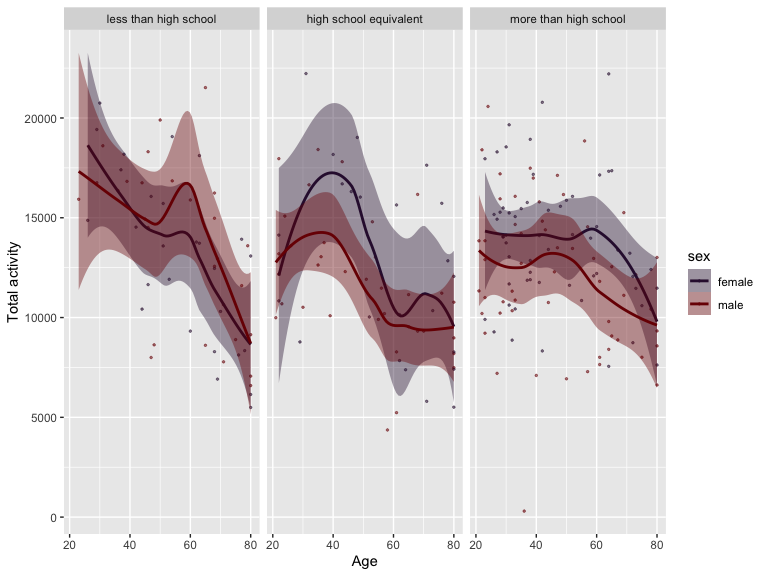
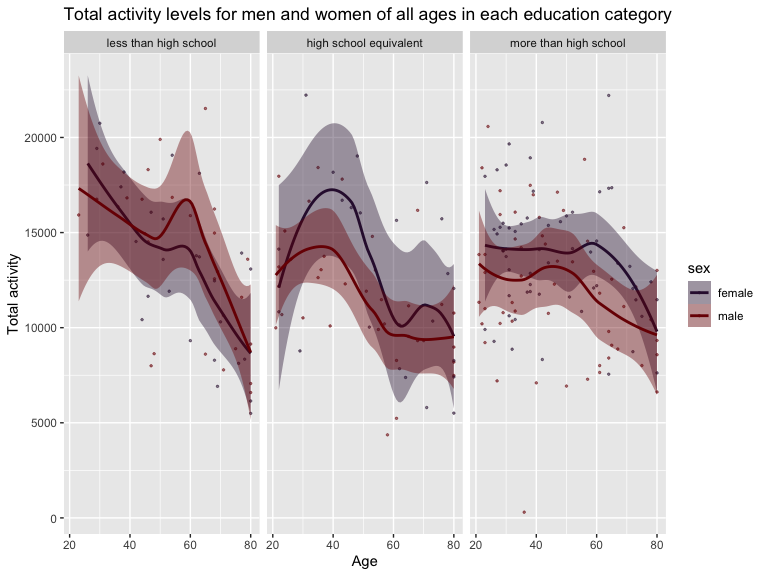
Final comments

diff --git a/p8105_hw3_rl3411.md b/p8105_hw3_rl3411.md
@@ -191,7 +191,7 @@ brfss_df =
          county = locationdesc) 
 ```
 
-### Looking into the “Overall Health” topic
+### Creating dataset for “Overall Health” topic
 
 ``` r
 overall_health_df =
@@ -257,11 +257,21 @@ exc_resp = overall_health_df |>
   summarize(mean = mean(data_value, na.rm=T)) 
 
 exc_resp |> 
-  ggplot(aes(x = year, y = mean, color = (group = state))) + 
-  geom_line()
+  ggplot(aes(x = year, y = mean)) + 
+  geom_line(aes(color = (group = state))) + 
+  geom_smooth(se = F) + 
+  labs(title = "Mean of data values over time (excellent health status group)")
 ```
 
 <img src="p8105_hw3_rl3411_files/figure-gfm/unnamed-chunk-10-1.png" width="100%" />
+
+From the spaghetti plot above, we see that most of the states have
+overlapping average values over time for those that responded
+“excellent” to their general health status. By looking at the thicker
+smooth blue curve across the center of the plot, there seems to be a
+slight downward trend from 2002 to 2010 across all states, though the
+overlaps between each “spaghetti” makes the plot messy and difficult to
+follow through each state.
 
 ### 2006 vs. 2010: Distribution of data for responses in NY
 
@@ -278,10 +288,21 @@ p2c_dataset |>
   theme(axis.text.x = element_text(size = 8)) +
   geom_boxplot(color = "grey", alpha = 0.5) +
   geom_point(aes(color = county)) + 
-  facet_grid(. ~ year)
+  facet_grid(. ~ year) + 
+  labs(title = "2006 vs. 2010: Distribution of data for responses in NY")
 ```
 
 <img src="p8105_hw3_rl3411_files/figure-gfm/unnamed-chunk-11-1.png" width="100%" />
+
+Among locations in NY State in both 2006 and 2010, the distribution of
+data values seem to increase from “poor” to “very good”, then taking a
+dip in the “excellent” response group. For those who responded “poor”,
+the data value distributions in both years have a small/tight interval
+and most counties averaged below 5 in this response group. On the other
+hand, the response groups “good” and “very good” seem to be the highest
+in both years. In 2006, the distribution of data values seem to be
+similar between “good” and “very good” but in 2010, the data values for
+“very good” was apparently higher than those who responded “good”.
 
 # Problem 3
 
@@ -322,7 +343,7 @@ mims_df =
   arrange(age, bmi)
 ```
 
-### Number of men and women in each education category
+### Comparison of men and women in each education category
 
 ``` r
 mims_df |> 
@@ -348,12 +369,22 @@ mims_df |>
                                    "more than high school")), 
              y = age, fill = sex)) +
   geom_boxplot() +  
-  xlab("Education level") + ylab("Age") 
+  xlab("Education level") + ylab("Age") +
+  labs(title = "Age distribution of men and women in each education category")
 ```
 
 <img src="p8105_hw3_rl3411_files/figure-gfm/unnamed-chunk-14-1.png" width="100%" />
 
-Comment!!!!!
+From the contingency table, we can deduce that most participants have an
+education level of more than high school. This education group
+corresponds a lower age distribution in the plot. For those who received
+an education of less than high school, their age distribution was
+higher, with an increased median of approximately 20 years as compared
+to those who had higher level of education. While the numbers between
+men and women were roughly equal in the “less than high school” and
+“more than high school” groups, there were 13 more men than women in the
+group who did high school and equivalent, and men were generally younger
+than women in this group.
 
 ``` r
 mims_total_act = mims_df |> 
@@ -369,12 +400,26 @@ mims_total_act |>
                                               "more than high school"))) +
   scale_color_viridis_d(option = "H") +
   scale_fill_viridis_d(option = "H") + 
-  ylab("Total activity") + xlab("Age")
+  ylab("Total activity") + xlab("Age") + 
+  labs(title = "Total activity levels for men and women of all ages in each education category")
 ```
 
 <img src="p8105_hw3_rl3411_files/figure-gfm/unnamed-chunk-15-1.png" width="100%" />
 
-Comment!!!!!
+Across all three education levels, there is a downward trend of total
+activity as age increases. This is reasonable as we would expect people
+to be less active as they grow older. All the curves end between the
+range of 8000 and 10000 for both men and women at the age of 80,
+suggesting that the activity levels do not differ between gender for
+older populations. For those who received the high school equivalent or
+more than high school, we see that women generally have higher activity
+levels than men, especially when comparing middle-aged women to men who
+received “high school equivalent”. On the contrary, for those who
+received “less than high school” education, women are more active than
+men between 20 to 40 years old, but were less active after the age of 40
+as compared to men. Overall, the younger females who received “less than
+high school” education seem to have the highest level of total activity
+compared to all other population groups.
 
 ``` r
 timecourse = 
@@ -384,7 +429,9 @@ timecourse =
     names_to = "minute_of_the_day",
     values_to = "activity"
   ) |> 
-  mutate(minute_of_the_day = str_sub(minute_of_the_day, 4, -1))
+  mutate(minute_of_the_day = str_sub(minute_of_the_day, 4, -1),
+         minute_of_the_day = as.numeric(minute_of_the_day)) |> 
+  filter(activity < 50)
 
 timecourse |> 
   ggplot(aes(x = minute_of_the_day, y = activity, color = sex)) + 
@@ -392,7 +439,22 @@ timecourse |>
   geom_smooth() +
   facet_grid(factor(education, levels = c("less than high school", 
                                           "high school equivalent", 
-                                          "more than high school"))~.) 
+                                          "more than high school"))~.) +
+  scale_x_continuous(breaks = c(0, 250, 500, 750, 1000, 1250, 1500)) +
+  xlab("minute of the day") + 
+  labs(title = "Activity levels for men and women in each education category across a 24-hour period")
 ```
 
 <img src="p8105_hw3_rl3411_files/figure-gfm/unnamed-chunk-16-1.png" width="100%" />
+
+Judging by the yellow and purple smooth curves, across all three levels
+of education, activity levels start to increase at the 375th minute of
+the day, which corresponds to around 6 o’clock in the morning, then
+maintain somewhat constant at an average of 12.5 MIMS-units until around
+7pm then continues to decrease until midnight. During daytime, women
+tend to be more active than men, especially those in the “more than high
+school” education group. As the day passes, we can see that men start to
+have higher activity levels than women during the night. Lastly, the
+clusters on the bottom right corner of each plot suggest that people
+start to rest around 9pm at night in all three groups, assuming that
+everyone keeps their accelerometers on throughout the 24-hour period.
